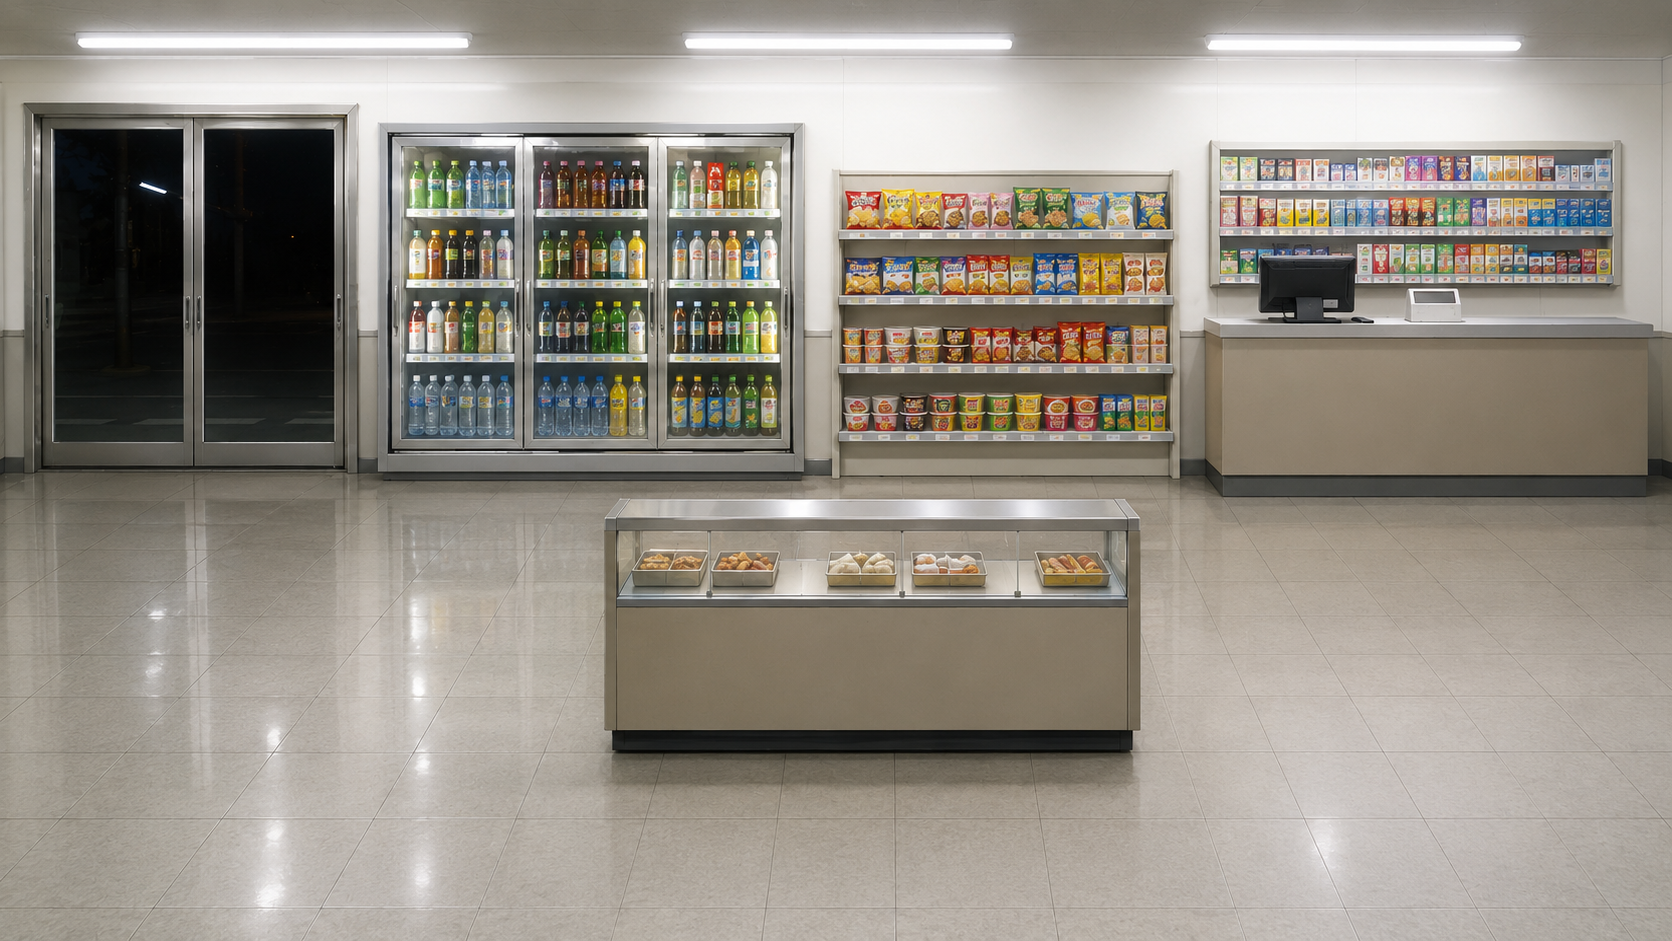
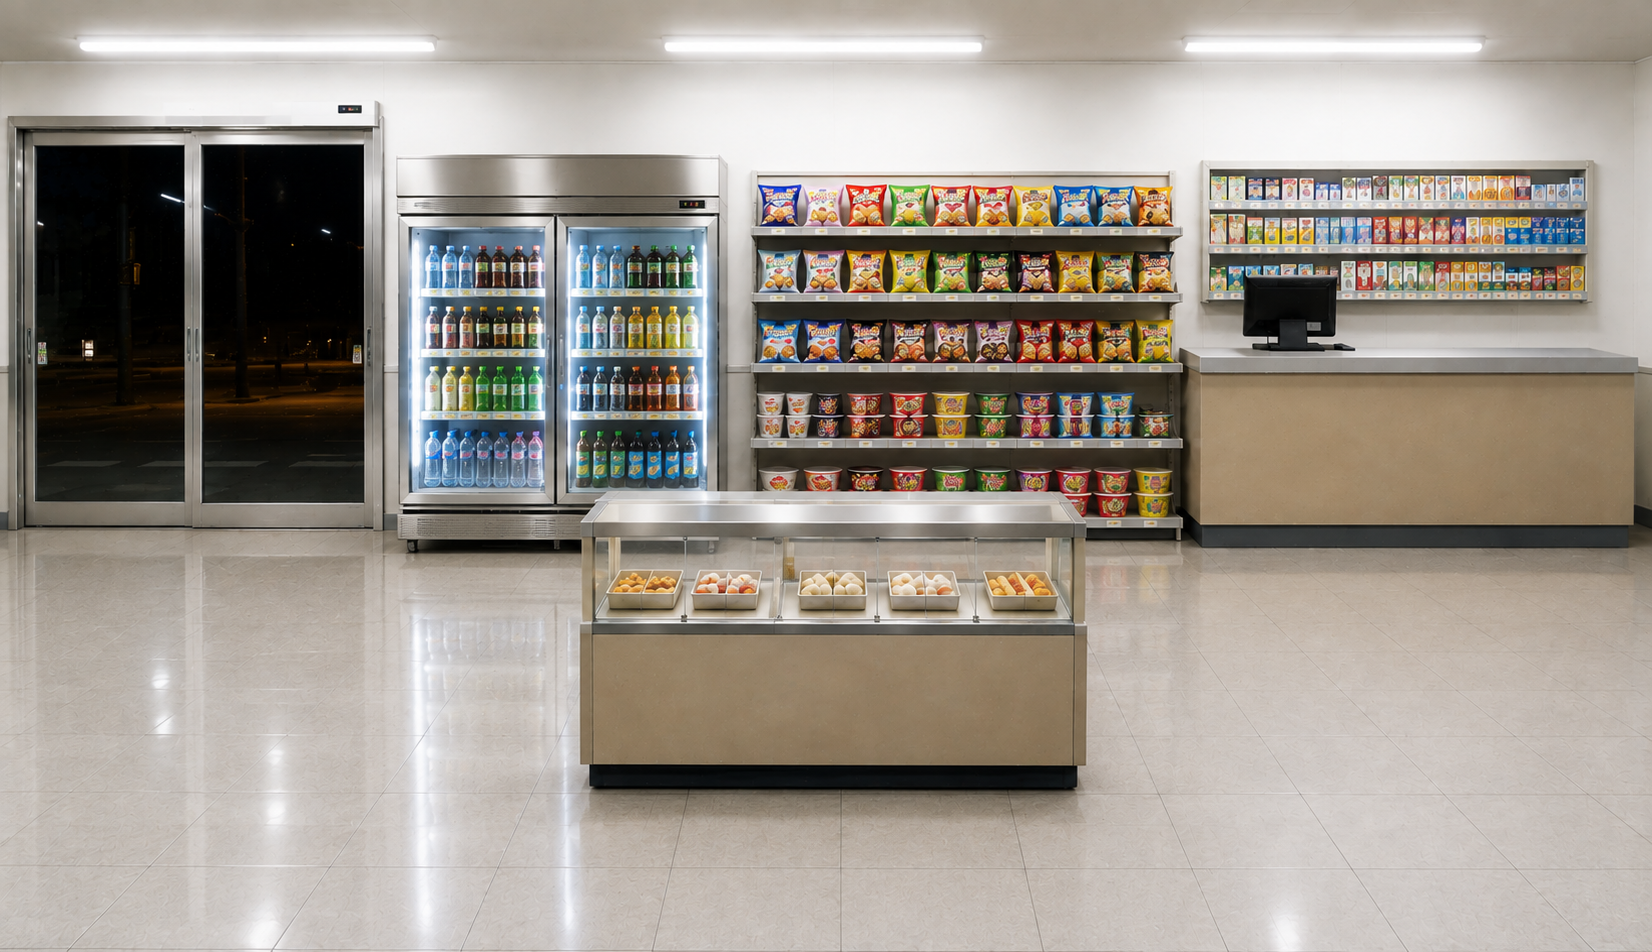
超商室內從真 3D 房間改回 2D 平面背景，鮮食櫃/店員拿掉 3D
- 真的長方體房間（地板+天花板+北牆+3D 櫃台+店員骨架）kc 截圖看實機後判定
  「現在的很糟糕」：場景浮在空曠磁磚地板的虛空裡，店員低模跟其他照片級
  貼圖材質落差太大。改回扁平 2D 背景（wall+counter 兩張圖拼、地板暫用
  store-floor.png 頂著），只留鮮食櫃 3D 箱體、店員 3D 模型整個拿掉
- kc 隨後生了一張整間店都在同一張照片裡（含收銀機/鮮食櫃/正確透視地板）
  的新圖，丟進 assets/bg/store-front.png，要求「用一張圖片而已」——下一輪
  要把 STORE.bgSrc 換過去、鮮食櫃退回 Y-sort 裁切重繪，TODO 詳細步驟記在
  DESIGN_NOTES.md「換成單張整合照片」節，這次先只放好素材、程式還沒改

diff --git a/docs/DESIGN_NOTES.md b/docs/DESIGN_NOTES.md
@@ -1100,6 +1100,83 @@ NPC 套上去反而是在幫倒忙。**
 `WALL_CUT` 已在新圖上重新量過。`store-front.png` 檔案本身還留著沒刪,但
 已經沒有程式碼在引用它。
 
+**⚠ 這整套「真的長方體房間」2026-08-13 當天晚上被 kc 推翻,見下面「整體改回
+2D 背景」——上面這節記的是這個方向存在過、以及為什麼一路走到這裡,不是
+現行做法。**
+
+### 整體改回 2D 背景,只留鮮食櫃是 3D(2026-08-13 晚間定案)⚠
+
+kc 截圖看了上面那版「真的長方體房間」的實機畫面,一句話:「現在的很糟糕」。
+截圖抓到兩個問題,而且比想像中更具體:
+
+1. **店員是唯一「假」的東西。** 牆、飲料櫃、鮮食櫃、櫃台都是 GPT 生的照片級
+   材質,店員卻是沒貼皮膚的低模骨架,一件死紫色 polo 衫、五官全無——三樣
+   真的、一樣假的擺在一起,比像素風時代「全部都簡化」還刺眼。
+2. **整個場景像浮在空曠展場裡的模型展示櫃。** 地板是一整片反光磁磚往四面
+   八方無限延伸(`ROOM_VISUAL_HALF_WIDTH=24`),超商本身只佔畫面中間一小
+   塊,沒有側牆、沒有天花板收邊,角色站在旁邊像在看展品,不是在便利商店裡。
+
+kc 的結論:**牆/飲料櫃/貨架/櫃台全部收回同一張 2D 背景圖,店員也是(kc 說
+「我之後再做 2D 在櫃檯內」,這次先不接、櫃台後面暫時沒人)。只有鮮食櫃
+維持 3D 箱體**——這是唯一玩家會走近、需要正確前後遮擋的互動點(黃標/正價
+便當的核心抉擇發生在這裡,見「鮮食櫃是整個遊戲的縮影」那節),值得多花
+這個成本;其餘家具玩家摸不到、也不用走到它們背後,3D 化本來就是多花的
+工。這連帶砍掉了上面「櫃台改成真的 3D 家具」那節記的一整圈坑(z-fighting、
+深度反覆橫跳、箱體側面暴露)——那些坑的根源是「拿 3D 房間去解一個鏡頭
+永遠不會轉的畫面」,而不是哪個數字沒校準對。
+
+**做法:`prototypes/game.html` 的 `indoorScene` 拿掉地板/天花板/北牆/櫃台
+箱體跟店員骨架,只留鮮食櫃(`buildHotCabinet`,原封不動)跟玩家。新增一張
+純 Canvas 2D 的 `<canvas id="c2dbg">`,疊在 `c3d`(現在設成透明背景,
+`alpha:true`)底下,`paintStoreBackdrop()` 把 `store-wall.png`(牆/飲料櫃/
+貨架/門口)跟 `store-counter.png`(櫃台正面)直接 `drawImage` 貼上去,不做
+任何相機投影校正——兩張圖擺在畫面上「看起來對」就好,跟 `scene-home.js`
+那套 2D 場景同等級的精確度,回到 DESIGN_NOTES 提過的「PS1《惡靈古堡》
+疊圖」那個方向。
+
+**地板是這次唯一沒有現成素材的地方**:`store-wall.png` 生圖時特意排除了
+地板(牆一路拍到磁磚交界就切了),`store-floor.png` 是給 3D 地板用的
+可平鋪磁磚貼圖,不是有透視的地板照片。先用 `store-floor.png` 整張拉滿貼在
+牆面圖下方頂著(不做透視,跟像素風時代 `scene-store-front.js` 的地板畫法
+——純色棋盤格,也沒做透視——同一個精神)。**踩過一個小坑**:一開始寫成
+迴圈平鋪這張圖,但這張圖本身已經是 3×3 磁磚,再平鋪等於同一個網格疊乘,
+畫面變成一片密密麻麻的小碎格;改成只拉滿畫一次就好。這塊地板效果是先湊
+出來的,kc 覺得比例/色調不對可以再調 `paintStoreBackdrop()` 裡的版位數字,
+或之後生一張真的有透視的地板照片替換掉。
+
+碰撞:`FIXTURE_COLLIDERS` 的櫃台那條原本從 3D 箱體的真實寬度反推,箱體
+拿掉之後直接改用 `STORE.spots` 裡本來就有的 `counter` 那組 px 座標,少繞
+一圈換算。
+
+#### 🔖 待辦:換成單張整合照片,鮮食櫃退回 Y-sort 裁切(還沒做)
+
+kc 生了一張新的整間店照片(門/飲料櫃/貨架/櫃台+收銀機/鮮食櫃/地板全部
+在同一張裡,連透視都是對的),丟了截圖過來說「用一張圖片而已 是2d的」
+——比上面這版「牆+櫃台兩張圖拼、地板另外湊」還要再退回去一層,回到
+`9cd6f01^`(3D 化之前)那版 `renderIndoor()` 的做法:**整場景一張圖
+`drawImage` 貼滿,不用拼接、不用湊地板。鮮食櫃不當獨立 3D 箱體,靠
+Y-sort 裁切重繪**(玩家 `py` 比鮮食櫃的 `y` 小就把鮮食櫃那塊區域從同一張
+圖裁下來蓋回玩家身上,`STORE.hot.cut` 那組座標舊版就有,直接可用)——
+這張圖本身就畫了鮮食櫃,3D 箱體反而變成畫蛇添足。
+
+檔案已經放好:`assets/bg/store-front.png`(這次覆蓋掉舊的、沒人在用的
+同名檔)。**程式還沒改**——現在跑的還是上面那版「wall+counter 兩張圖拼
++ store-floor.png 湊地板」,不是這張新圖。下一輪要做的事:
+1. `STORE.bgSrc` 指到新的 `store-front.png`,`paintStoreBackdrop()` 整段
+   換成單張 `drawImage(img,0,0,1280,720)`,拆掉 wall/counter/floor 三張圖
+   拼接跟地板平鋪那段。
+2. 拿掉 3D 鮮食櫃箱體(`buildHotCabinet`/`HOT_*` 材質/`hotCabinet` 實例),
+   `FIXTURE_COLLIDERS` 的鮮食櫃那條改用 `STORE.hot` 的 px 座標直接算
+   (跟櫃台那條現在的做法一樣,不用再繞 3D 世界座標)。
+3. 在 `renderIndoorForeground()`(現在只畫顆粒雜訊那層)補上鮮食櫃的
+   裁切重繪:`IN.py < STORE.hot.y` 時把 `STORE.hot.cut` 那塊從新背景圖
+   裁下來畫到 `STORE.hot` 的畫面位置,蓋在玩家(畫在 `c3d`,比 `c2df`
+   低一層)上面,做出「玩家站鮮食櫃後面會被擋住」的效果。`STORE.hot.cut`
+   是照舊圖(1672×941)量的,新圖是 1652×952,建議換算成比例
+   (sx/1672、sy/941 這樣的分數)再乘新圖實際尺寸,不要照抄原始像素值。
+4. `store-wall.png`/`store-counter.png`/`store-floor.png` 三個檔案留著
+   不用刪,先確認新版跑起來沒問題再考慮清掉。
+
 ### 表情:3D 模型做不到,交給 2D 立繪(2026-08-12 定案)⚠
 
 kc 問可不可以用 GPT 生圖做表情。**不能直接貼在 3D 模型臉上**——貼圖要對齊
